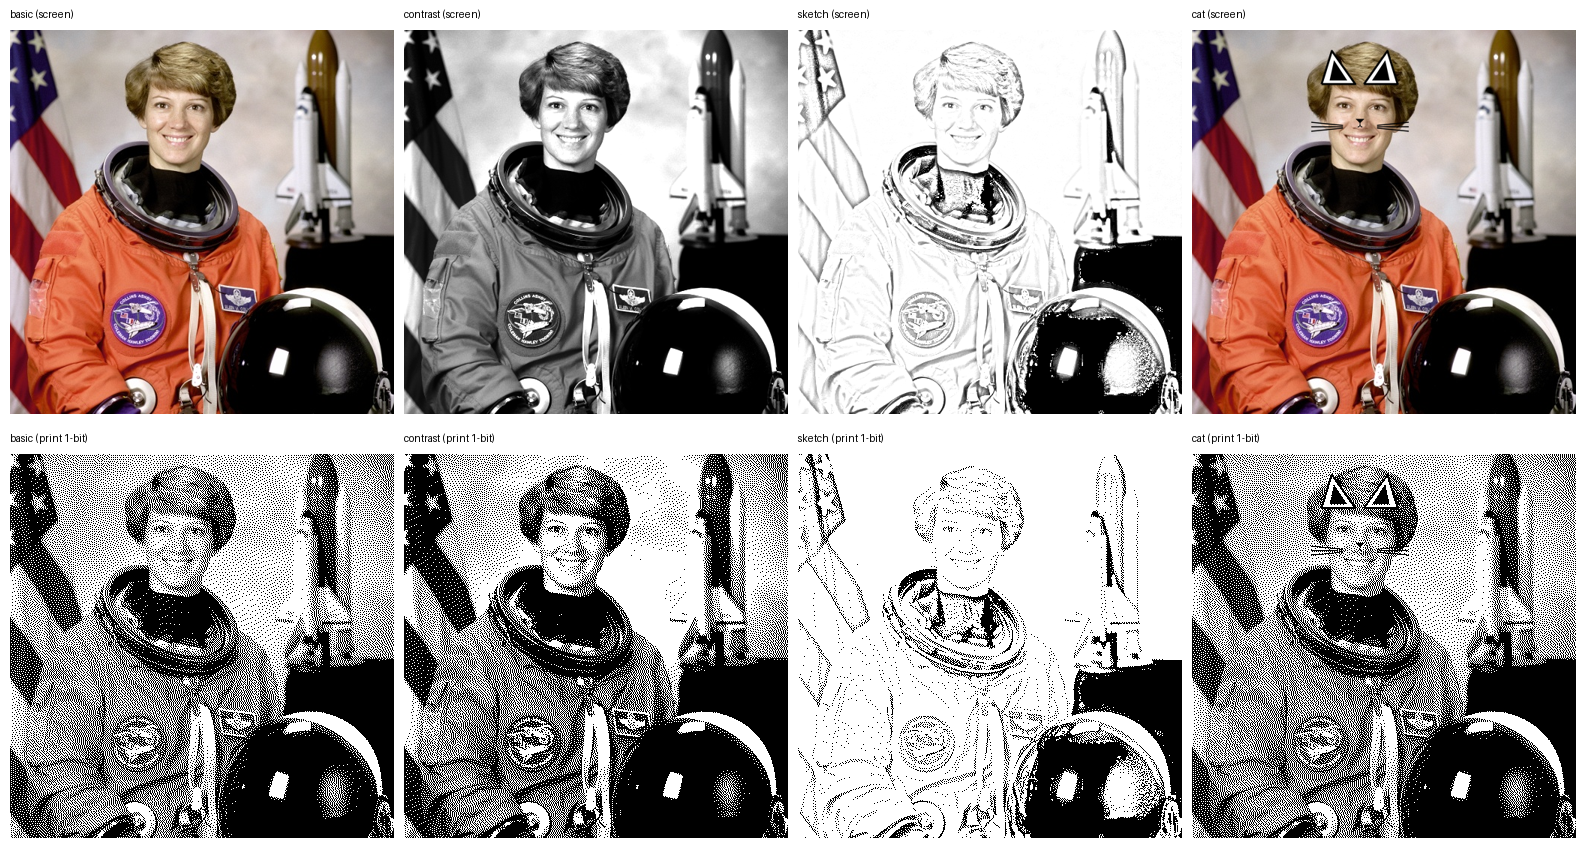
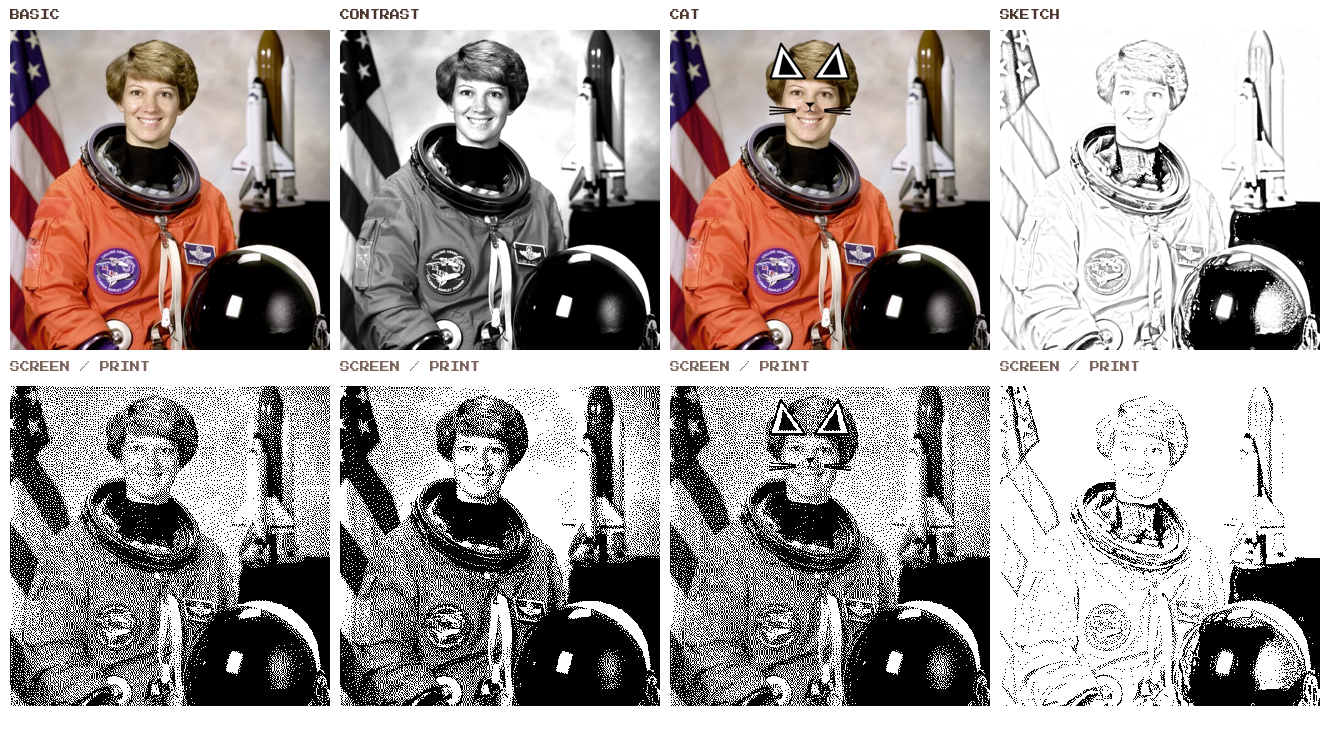
README 개편: 진행 상황, 화면 이미지, 설계 결정, 문제 해결 기록 추가

diff --git a/README.md b/README.md
@@ -1,107 +1,194 @@
 # 라즈베리파이 포토부스
 
-버튼(또는 SPACE)을 누르면 카운트다운 후 촬영하고, 손가락 개수로 고른 필터를 적용해 감열 프린터로 인쇄한다.
-카메라·버튼·프린터가 없어도 가상 장치로 동작하므로 Mac에서 먼저 개발하고, 부품이 도착하면 설정만 바꿔 이전한다.
+손 모양으로 필터를 고르고, 버튼을 누르면 촬영해서 감열 프린터로 인쇄하는 포토부스.
+IoT 과목 팀 프로젝트이며, 현재 **Mac에서 전체 흐름이 동작하는 단계**다. 라즈베리파이와 실물 장치 연결은 부품 도착 후 진행한다.
 
-## 필터 (손가락 개수, 엄지 제외)
+![대기 화면](docs/ui_idle.png)
+
+## 한눈에 보기
+
+| 구분 | 내용 |
+|---|---|
+| 입력 | USB 카메라(OV9726), 버튼(KY-004, GPIO) |
+| 처리 | 라즈베리파이 4 (3GB) · Python, OpenCV, MediaPipe |
+| 출력 | 모니터(HDMI), 58mm 감열 POS 프린터(USB, ESC/POS) |
+| 특징 | 손가락 개수로 필터 선택 · 인쇄용 흑백(1비트) 변환 · 장치가 없어도 가상 장치로 개발 가능 |
+
+## 진행 상황 (2026-11-11 기준)
+
+| 항목 | 상태 | 비고 |
+|---|---|---|
+| 촬영 → 카운트다운 → 결과 → 인쇄 흐름 | 완료 | Mac(내장 웹캠), 가상 프린터 |
+| 손가락 개수로 필터 선택 | 완료 | MediaPipe 손 인식 모델 필요 |
+| 필터 4종 (기본, 고대비, 고양이, 스케치) | 완료 | |
+| 화면(UI) 5종, 크리스마스 테마 | 완료 | 테마는 설정으로 변경 가능 |
+| 라즈베리파이에 코드 적용 | 예정 | 라즈베리파이 도착 후 |
+| USB 카메라 · 버튼 · 프린터 실물 연결 | 예정 | 아직 검증하지 못함 |
+| 외관(박스) 제작 | 예정 | |
+| 필터 품질 개선 | 예정 | 인쇄 변환 조정, 스티커 기울기 대응 |
+
+## 화면 (UI)
+
+레트로 픽셀 스타일의 크리스마스 테마. 옅은 브라운 바탕에 버건디를 포인트로 썼다.
+
+![화면 4종](docs/ui_preview.png)
+
+| 화면 | 내용 |
+|---|---|
+| 대기 | 카메라 미리보기, 필터 목록(현재 필터 강조), "PRESS THE BUTTON" |
+| 카운트다운 | 3, 2, 1과 "SMILE!" |
+| 결과 | **실제 인쇄될 흑백 이미지**를 영수증 종이 모양으로 표시 |
+| 인쇄 중 | "PRINTING..." |
+| 오류 | 프린터·카메라 오류를 알림 띠로 표시하고 대기로 복귀 |
+
+- 화면 틀은 800x480 기준에서 픽셀 단위로 그린 뒤 모니터 크기에 맞게 확대하고, 카메라 사진만 따로 붙인다
+- 테마는 `config.py`의 `THEME`으로 바꾼다 (`christmas` / `pastel`)
+
+## 동작 방식
+
+![동작 흐름도](docs/diagram_flow.png)
+
+1. **대기**: 카메라 미리보기를 보여 주며 손 모양을 인식해 필터를 고른다
+2. **버튼(또는 SPACE)**: 카운트다운이 시작되고 필터가 고정된다
+3. **촬영 → 필터 적용 → 인쇄용 변환**: 사진 한 장에만 처리한다
+4. **결과 표시 → 인쇄**: 인쇄는 별도 스레드로 실행해 화면이 멈추지 않는다
+5. 인쇄 중 버튼 입력은 무시하고, 프린터 오류가 나면 안내 후 대기로 돌아온다
+
+## 필터
+
+손가락 개수(엄지 제외)로 필터를 고른다.
 
 | 손 모양 | 필터 | 설명 |
 |---|---|---|
 | 주먹 / 손바닥 / 손 없음 | basic | 기본 |
-| 검지 1개 | contrast | 명암을 강하게 (인쇄에서 선명) |
-| V 사인(2개) | cat | 얼굴에 고양이 귀·코·수염 스티커 |
+| 검지 1개 | contrast | 명암을 강하게 |
+| V 사인 (2개) | cat | 얼굴에 고양이 귀·코·수염 |
 | 3개 | sketch | 연필 스케치 |
 
-## 설치 (Mac 개발 환경 / 라즈베리파이 공통)
+![필터 비교](docs/filter_compare.png)
+
+위 줄은 화면에 보이는 모습, 아래 줄은 감열 프린터로 실제 찍힐 흑백 점 이미지다.
+
+**설계 결정과 이유**
+
+| 결정 | 이유 |
+|---|---|
+| 손가락 개수는 직접 만든 규칙으로 판별 | MediaPipe는 관절 좌표만 준다. 손목에서 손가락 끝까지의 거리가 두 번째 마디까지의 거리보다 1.2배 넘게 멀면 "펴짐"으로 판단한다. 거리로 비교하므로 손이 기울어도 맞는다 |
+| 엄지는 세지 않음 | 엄지는 굽는 방향이 달라 오판이 잦다. 네 손가락만 세어 0~4로 구분한다 |
+| 같은 결과가 연속 4번일 때만 필터 변경 | 한 프레임짜리 오인식을 무시한다 |
+| 인식은 N프레임마다, 축소 해상도(320x240)로 | 라즈베리파이의 CPU 부담을 줄이기 위해서 |
+| 필터는 촬영한 한 장에만 적용 | 미리보기에서 매 프레임 처리하지 않아도 되어 가볍다 |
+| 피부 보정 같은 미세한 필터는 제외 | 감열 프린터는 흑백 점으로 찍어서 미세한 톤 변화가 인쇄물에서 거의 보이지 않는다 |
+| 결과 화면에 인쇄용 이미지를 그대로 표시 | 사용자가 실제로 찍힐 모습을 미리 볼 수 있다 |
+
+## 구조
+
+장치와 닿는 파일(`camera.py`, `button.py`, `printer.py`)을 따로 분리했다. 실물이 없으면 자동으로 가상 장치로 대체되고, 부품이 도착하면 이 파일들과 `config.py`만 실물에 맞추면 된다.
+
+![하드웨어 구성도](docs/diagram_hardware.png)
+
+![소프트웨어 구성도](docs/diagram_software.png)
+
+| 파일 | 역할 |
+|---|---|
+| `main_cv.py` | 실행 파일 (OpenCV 창). Mac에서 권장 |
+| `main.py` | 실행 파일 (Tkinter). 최신 Tk 환경용 |
+| `booth.py` | 동작 순서(상태 머신) |
+| `render.py` | 화면 이미지 그리기 (테마, 장식, 레이아웃) |
+| `camera.py` `button.py` `printer.py` | 장치 접근 (없으면 가상 장치) |
+| `hand_gesture.py` | MediaPipe 손 인식 + 손가락 개수 판별 |
+| `filters.py` `face_sticker.py` | 필터와 고양이 스티커 |
+| `image_utils.py` | 프린터 폭 맞춤, 1비트 변환 |
+| `config.py` | 모든 설정값 |
+| `make_stickers.py` | 스티커 PNG 생성 |
+| `tests/test_pipeline.py` | 하드웨어 없이 돌리는 검증 |
+
+## 시작하기 (Mac)
+
+Python 3.9 이상. 아래는 실제로 동작을 확인한 순서다.
 
 ```bash
+git clone https://github.com/angelnumb8r/raspberry-pi-photobooth.git
+cd raspberry-pi-photobooth
+
 python3 -m venv .venv
 source .venv/bin/activate
-pip install -r requirements.txt
+python -m pip install --upgrade pip
+python -m pip install "opencv-python>=4.8,<5" pillow numpy python-escpos pyusb gpiozero
+python -m pip install --no-compile mediapipe
 ```
 
-- `requirements.txt`의 `opencv-python<5`는 의도한 설정이다. OpenCV 5.x에는 얼굴 검출 파일(Haar)이 빠져 있어서 4.x를 쓴다.
-- Mac에서 `gpiozero`·`pyusb` 설치가 문제되면 해당 줄만 빼고 설치해도 된다 (버튼·프린터가 가상 장치로 대체됨).
-
-## 손 인식 모델 내려받기 (1회)
+손 인식 모델은 저장소에 없으므로 따로 내려받는다 (약 7.8MB).
 
 ```bash
-mkdir -p models
 curl -L -o models/hand_landmarker.task \
   https://storage.googleapis.com/mediapipe-models/hand_landmarker/hand_landmarker/float16/latest/hand_landmarker.task
 ```
 
-모델이 없으면 손 인식만 꺼지고(필터는 basic 고정) 나머지는 정상 동작한다.
-최신 MediaPipe에서는 예전 `mp.solutions` API가 없어서 Tasks API(`HandLandmarker`)를 쓴다.
-
-## 실행
+검증과 실행:
 
 ```bash
-python main.py --windowed     # 창 모드 (개발용)
-python main.py                # 전체화면 (라즈베리파이)
+python tests/test_pipeline.py     # 마지막 줄이 ALL PASSED면 정상
+python main_cv.py                 # 창을 한 번 클릭한 뒤 SPACE로 촬영, ESC 또는 q로 종료
 ```
 
-SPACE = 버튼 대신 촬영 시작, ESC = 종료.
-시작할 때 터미널에 어떤 장치가 실물이고 어떤 것이 가상인지 출력된다.
-카메라가 없을 때 사진으로 개발하려면 `config.py`의 `FAKE_CAMERA_IMAGE = "tests/sample.jpg"`로 지정한다.
+시작할 때 터미널에 어떤 장치가 실물이고 어떤 것이 가상인지 출력된다. 카메라가 없으면 `config.py`의 `FAKE_CAMERA_IMAGE = "tests/sample.jpg"`로 사진을 대신 쓸 수 있다.
 
-## 하드웨어 없이 검증
+## 라즈베리파이에서 (예정)
 
-```bash
-python tests/test_pipeline.py
-```
+| 단계 | 통과 기준 |
+|---|---|
+| 1. OS 설치 (64비트 + 데스크톱) | 부팅됨 |
+| 2. 접속(VNC), 환경 확인 | `aarch64` 확인 |
+| 3. 코드 받기, 패키지·모델 설치 | 위 설치 확인 명령 통과 |
+| 4. 화면 실행 | 얼굴과 필터가 보임 |
+| 5. 버튼 배선 | 누르면 촬영 시작 |
+| 6. 프린터 연결 | 종이로 인쇄됨 |
+| 7. 통합, 자동 시작 | 전원만 켜면 포토부스 실행 |
 
-손가락 개수 판별, 필터 4종, 가상 프린터 출력, 상태 머신(카운트다운·중복 입력 무시·프린터 오류 복구)을 확인한다.
+- MediaPipe 설치에는 64비트 OS가 필요하다 ([공식 설정 안내](https://developers.google.com/edge/mediapipe/solutions/setup_python) 기준 Raspberry Pi OS 64-bit)
+- 버튼 모듈(KY-004)은 GPIO 보호를 위해 5V가 아닌 3.3V에 연결한다
+- 프린터는 자체 전원 어댑터를 쓰고 라즈베리파이 전원과 분리한다
 
-## 부품 도착 후 바꿀 것 (config.py)
+## 설정 (`config.py`)
 
-| 항목 | 확인 방법 | 설정 |
+| 항목 | 설명 |
+|---|---|
+| `CAMERA_INDEX` | 카메라 번호 (`ls /dev/video*`로 확인) |
+| `PRINTER_USB_IDS` | 프린터 `(vendor_id, product_id)` (`lsusb`로 확인). `None`이면 가상 프린터 |
+| `PRINT_WIDTH` | 프린터 가로 점 수 (58mm는 보통 384) |
+| `GPIO_BUTTON_PIN`, `BUTTON_PULL_UP` | 버튼 핀 번호와 극성 (반응이 반대면 `BUTTON_PULL_UP`을 바꿈) |
+| `CAMERA_SIZE`, `DETECT_SIZE`, `DETECT_EVERY_N_FRAMES` | 미리보기가 끊길 때 조정 |
+| `THEME` | 화면 테마 (`christmas` / `pastel`) |
+
+## 문제 해결 기록
+
+개발 중 만난 문제와 해결 방법.
+
+| 문제 | 원인 | 해결 |
 |---|---|---|
-| 카메라 번호 | `ls /dev/video*` | `CAMERA_INDEX` |
-| 프린터 USB ID | `lsusb` (예: `ID 0416:5011`) | `PRINTER_USB_IDS = (0x0416, 0x5011)` |
-| 프린터 폭 | 프린터 사양서 | `PRINT_WIDTH` (58mm는 보통 384) |
-| 버튼 핀 | 배선한 GPIO 번호 | `GPIO_BUTTON_PIN` |
-| 버튼 극성 | 눌렀을 때 반응이 없거나 반대면 | `BUTTON_PULL_UP`을 True/False로 바꿈 |
-| 미리보기가 끊김 | - | `CAMERA_SIZE`, `DETECT_SIZE`, `DETECT_EVERY_N_FRAMES` 조정 |
+| `mp.solutions`가 없다는 오류 | 최신 MediaPipe에서 예전 API가 제거됨 | Tasks API(`HandLandmarker`)로 변경하고 모델 파일을 따로 내려받음 |
+| 얼굴을 못 찾음 | OpenCV 5.x에는 얼굴 검출용 Haar 파일이 빠져 있음 | `opencv-python<5`로 고정 |
+| `mediapipe` 설치가 마지막에 실패 | 패키지 안의 테스트 파일 때문에 pip의 컴파일 단계에서 오류 | `--no-compile` 옵션으로 설치 |
+| Tk 창이 비어 보임 | macOS 기본 Python의 Tk 8.5 문제 | OpenCV 창(`main_cv.py`)으로 대체 |
+| 카메라가 열리지 않음 | macOS가 터미널의 카메라 접근을 허용하지 않음 | 시스템 설정에서 터미널의 카메라 권한을 켜고 터미널을 다시 시작 |
 
-주의:
-- 프린터는 일반 사용자 권한으로 USB 접근이 거부될 수 있다 (udev 규칙 추가 또는 `sudo` 실행으로 원인 구분).
-- 버튼 모듈(KY-004)의 전원은 GPIO 보호를 위해 5V가 아니라 3.3V에 연결한다.
-- 프린터는 자체 전원 어댑터를 쓰고, 라즈베리파이 전원과 분리한다.
+## 한계와 개선 계획
 
-## 화면(UI)
+- 라즈베리파이, USB 카메라, 버튼, 프린터는 아직 실물로 검증하지 못했다. 프레임 속도 등 성능도 실물에서 측정해야 한다
+- 고양이 스티커는 정면 얼굴 기준이라 고개를 기울이면 스티커가 따라 기울지 않는다. MediaPipe Face Landmarker로 눈 좌표를 쓰면 개선할 수 있다
+- 인쇄 변환(대비, 밝기, 디더링 방식) 조정으로 인쇄 품질을 높일 수 있다
+- 화면 글자는 영어로만 표시한다
 
-화면은 5개다: 대기(미리보기 + 필터 목록), 카운트다운, 결과(실제 인쇄될 흑백 이미지), 인쇄 중, 오류 안내.
+## 문서
 
-- 800x480 기준 크기에서 픽셀 단위로 그린 뒤 모니터 크기에 맞게 확대한다 (사진만 부드럽게 따로 붙임)
-- 테마: `config.py`의 `THEME`으로 고른다. `christmas`(옅은 브라운 + 버건디 포인트, 트리·선물·눈송이 등) / `pastel`(하늘색 + 분홍)
-- 색상은 `render.py`의 `PALETTES`, 장식은 `_draw_doodles`, 필터 이름은 `FILTER_NAMES`에서 바꾼다
-- 글꼴: Press Start 2P (SIL Open Font License 1.1, `assets/fonts/OFL.txt`). 파일이 없으면 기본 글꼴로 대체됨
-- 화면 미리보기: `docs/ui_preview.png`
+- [개발 일지 양식](docs/dev_log_template.md)
+- 구성도와 흐름도 이미지: `docs/`
 
-## 파일 구조
+## 라이선스와 출처
 
-| 파일 | 역할 | 이전 시 |
-|---|---|---|
-| `main.py` | 화면(Tkinter) 실행 | 그대로 |
-| `booth.py` | 동작 순서(상태 머신) | 그대로 |
-| `render.py` | 화면 이미지 그리기 | 그대로 |
-| `camera.py` `button.py` `printer.py` | 장치 접근 | 실물 설정 확인 |
-| `hand_gesture.py` | 손 인식 + 손가락 개수 판별 | 그대로 |
-| `filters.py` `face_sticker.py` `image_utils.py` | 필터·스티커·인쇄 변환 | 그대로 |
-| `config.py` | 모든 설정 | 값만 수정 |
-| `make_stickers.py` | 스티커 PNG 생성 | 디자인 바꿀 때 |
-
-구성도·흐름도는 `docs/`에 있다.
-
-## 검증 상태
-
-- Mac/리눅스(가상 장치)에서 `tests/test_pipeline.py` 전체 통과
-- 실제 라즈베리파이, USB 카메라, 버튼, 프린터, MediaPipe 손 인식 모델은 아직 검증하지 못했다 (부품·모델 파일 필요)
-- 프레임 속도 등 성능은 실물에서 측정해야 한다
-
-## 한계와 개선 방향
-
-- 얼굴 검출이 Haar Cascade라 정면 얼굴 위주이고, 기울어진 얼굴에는 스티커가 같이 기울지 않는다 → MediaPipe Face Detector/Landmarker로 교체하면 눈·코 좌표를 쓸 수 있다
-- 엄지는 오판이 잦아 세지 않는다. 엄지까지 쓰려면 별도 규칙이 필요하다
-- 화면 글자는 한글 폰트 문제를 피하려고 영어로 표시한다
+- 코드: 별도 라이선스 파일은 아직 없다
+- 글꼴 Press Start 2P: SIL Open Font License 1.1 (`assets/fonts/OFL.txt`)
+- `tests/sample.jpg`: scikit-image 샘플 이미지(우주비행사). 테스트와 문서 이미지용
+- 고양이 스티커와 화면 장식: 이 저장소의 코드(`make_stickers.py`, `render.py`)로 직접 그림
+- 손 인식 모델(`hand_landmarker.task`)은 저장소에 포함하지 않으며 Google MediaPipe에서 내려받는다
